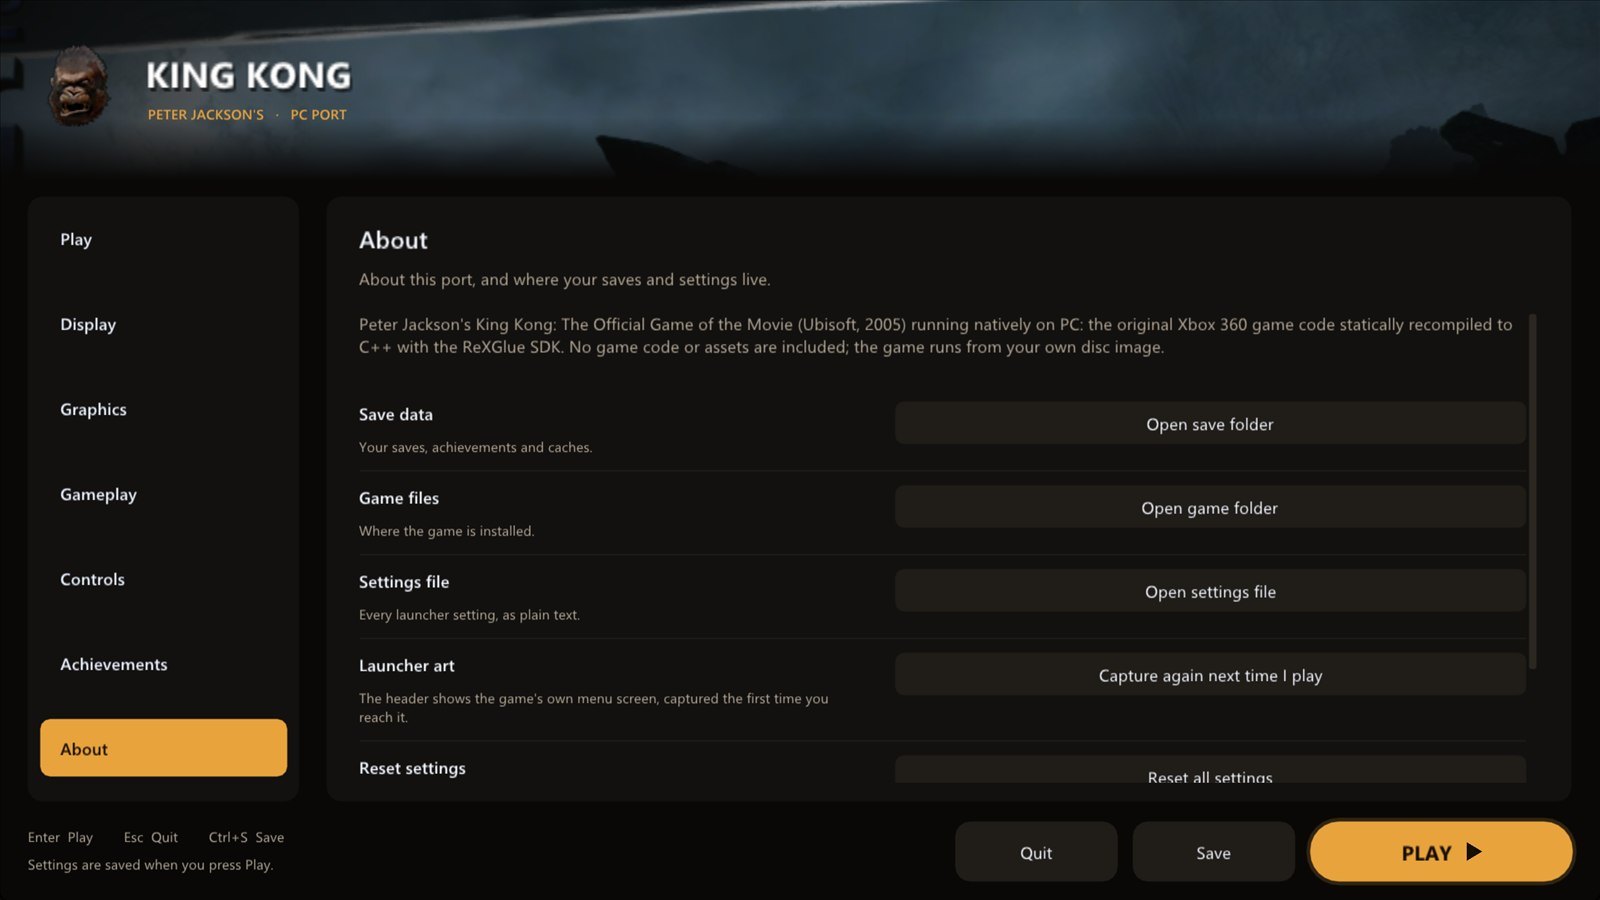
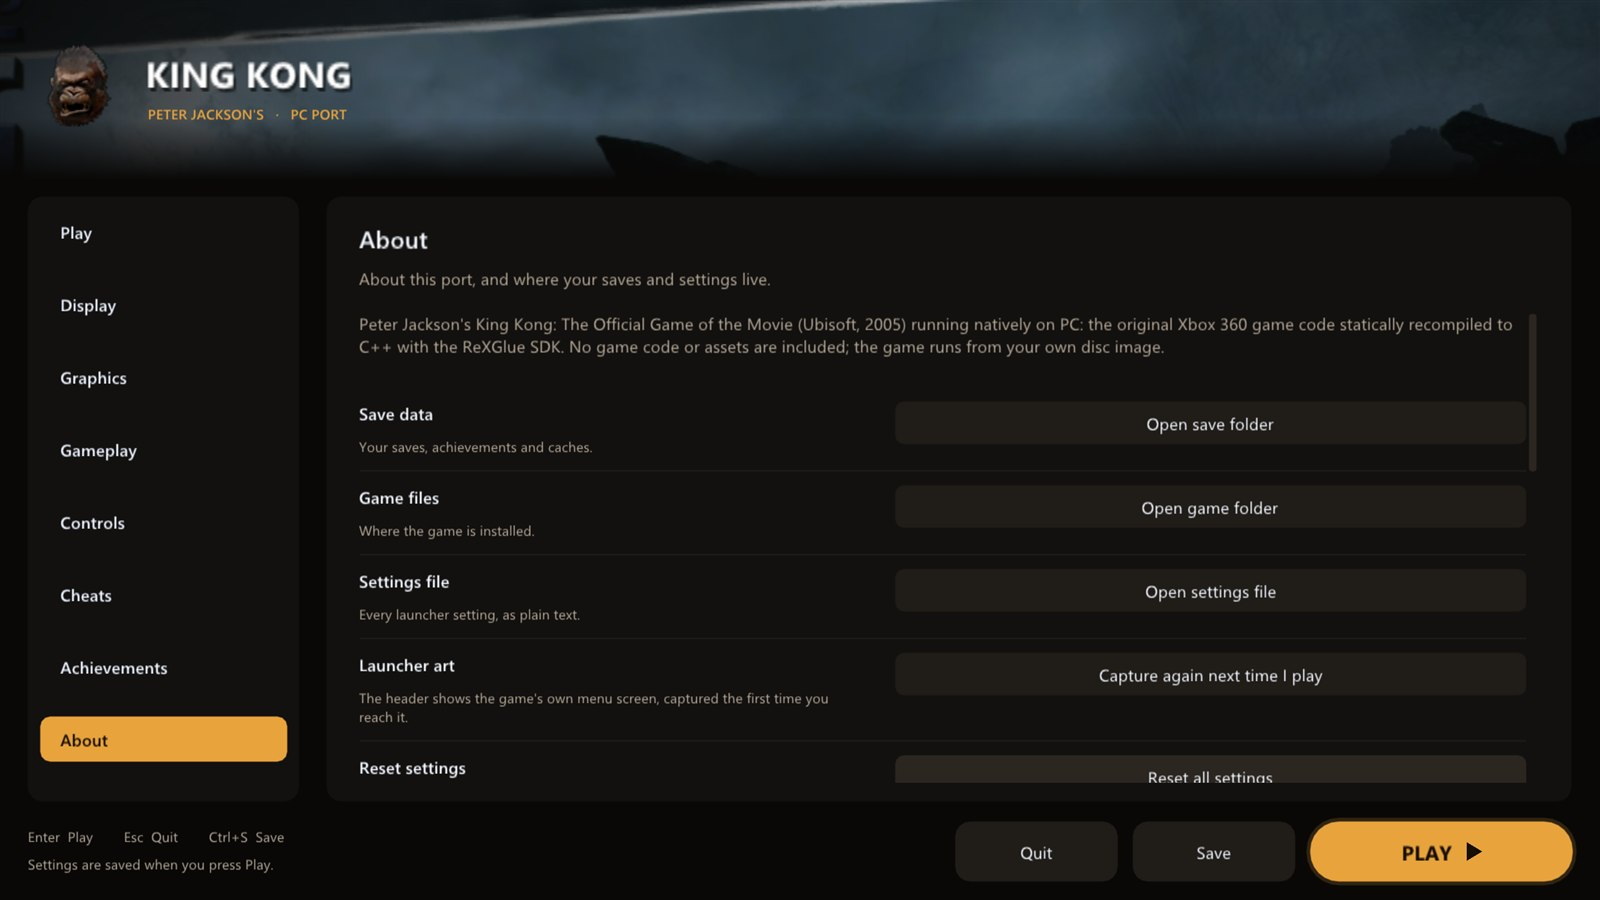
README: v1.7.0 launcher options and new screenshots
New highlights (field of view, cheats as switches, updates), the Cheats
page and What's new pop-up with screenshots, fuller notes on the new
options (field of view, motion blur, startup logos, controller and mouse
sensitivity, Reset page, changelog), more rows in the Xbox 360 vs PC
table, and an updated status note. All launcher screenshots retaken.

diff --git a/README.md b/README.md
@@ -19,7 +19,7 @@
 <br>
 
 > [!NOTE]
-> **First release.** Tested from the start of the game, through the opening on the ship, into Skull Island. A full play-through has not been tested yet. Please report anything that goes wrong.
+> **In active development.** Every chapter has been started and played for a while by automated test runs, but a full play-through hasn't been confirmed yet. New versions come out often, and the launcher offers each one when it opens. Please report anything that goes wrong.
 
 ## Highlights
 
@@ -54,13 +54,33 @@ A pop-up with a sound every time you unlock one of the game's 9 achievements, ju
 <td valign="top">
 
 **Your controls, your way**<br>
-Invert the camera, change its speed, set a deadzone, remap any button, adjust vibration, or play with keyboard and mouse.
+Invert the camera, set its sensitivity, toggle aim, set a deadzone, remap any button, adjust vibration, or play with keyboard and mouse.
 
 </td>
 <td valign="top">
 
 **Install from your disc**<br>
 Download, run, pick your disc image in the launcher, and play. No technical steps.
+
+</td>
+</tr>
+<tr>
+<td valign="top">
+
+**A wider view**<br>
+Widen the field of view from the original 69° up to 110°. Jack's gun keeps its usual size, and nothing pops in at the edges.
+
+</td>
+<td valign="top">
+
+**Cheats as switches**<br>
+All ten of the game's cheats are switches in the launcher, so there's no typing codes every time you play.
+
+</td>
+<td valign="top">
+
+**Always up to date**<br>
+The launcher offers new versions and new shader packs when it opens, and shows you what changed.
 
 </td>
 </tr>
@@ -74,7 +94,7 @@ Until now the only way to play it was on an Xbox 360. On the Xenia emulator it b
 
 ## The launcher
 
-Everything is set up before the game starts. The launcher uses art from your own copy of the game: Kong's face, the achievement pictures and the stormy sky from the game's menu. Settings are saved to a plain text file, `king_kong.toml`, next to the game.
+Everything is set up before the game starts. The launcher uses art from your own copy of the game: Kong's face, the achievement pictures and the stormy sky from the game's menu. Settings are saved to a plain text file, `king_kong.toml`, next to the game, and every settings page has a **Reset page** button that puts just that page back to its defaults.
 
 <table>
 <tr>
@@ -113,7 +133,7 @@ Everything is set up before the game starts. The launcher uses art from your own
 - **Custom resolution** from 1x (720p) to 6x (8K)
 - **FXAA** and **FXAA Extreme**
 - **Texture filtering** up to 16x
-- **Motion blur** on or off
+- **Motion blur** on or off: Off removes the ghost trail the game blends over fast moments, mostly in Kong's sequences
 - **Shader preparing**: wait for new effects (default, always drawn right) or prepare them in the background
 
 </td>
@@ -123,9 +143,9 @@ Everything is set up before the game starts. The launcher uses art from your own
 
 ### Gameplay
 - **Frame rate**: 30 (default, like the console), 60, 120, 144, 165, 240 or unlimited
-- **Field of view** from 69° (the original) to 110°
+- **Field of view** from 69° (the original) to 110°. The game draws the wider area too, Jack's gun keeps its usual size, and the menus keep their original look
 - **Frame counter** in the corner, toggled with <kbd>F2</kbd>
-- **Startup logos**: play or skip the Ubisoft, Universal and WingNut movies
+- **Startup logos**: play or skip the Ubisoft, Universal and WingNut movies, straight to the title screen
 - **Language**
 
 </td>
@@ -137,7 +157,8 @@ Everything is set up before the game starts. The launcher uses art from your own
 
 ### Controls
 - **Invert the camera** left/right and up/down, separately
-- **Controller sensitivity** from 25% to 300%, and **mouse sensitivity** for keyboard and mouse
+- **Controller sensitivity** from 25% to 300%, for looking left and right and up and down
+- **Mouse sensitivity** and **mouse camera** for keyboard and mouse
 - **Toggle aim**: press the left trigger once to raise the gun and again to lower it, instead of holding it
 - **Stick deadzone** to stop drift
 - **Vibration** on or off, with a strength slider
@@ -150,6 +171,21 @@ Everything is set up before the game starts. The launcher uses art from your own
 <tr>
 <td valign="middle">
 
+### Cheats
+The game's own cheats, as switches instead of codes to type each time you play:
+- **All chapters** and **all bonus content**
+- **Fast healing**, **one-hit kills**, **999 bullets** and **unlimited spears**
+- The **revolver**, **machine gun**, **shotgun** and **sniper rifle**
+
+They switch on as soon as the game reaches its main menu, exactly as if you had typed their codes.
+
+</td>
+<td><img src="docs/images/launcher-cheats.jpg" alt="Cheats page"></td>
+</tr>
+<tr>
+<td><img src="docs/images/launcher-achievements.jpg" alt="Achievements page"></td>
+<td valign="middle">
+
 ### Achievements
 - All **9 achievements** with their pictures, descriptions and gamerscore
 - See which ones you have **unlocked**
@@ -159,26 +195,31 @@ Everything is set up before the game starts. The launcher uses art from your own
 - A bonus **Welcome to Skull Island** achievement the first time you play
 
 </td>
-<td><img src="docs/images/launcher-achievements.jpg" alt="Achievements page"></td>
 </tr>
 <tr>
-<td><img src="docs/images/launcher-about.jpg" alt="About page"></td>
 <td valign="middle">
 
 ### About
 - Open your **save folder**, **game folder** or **settings file** in one click
 - **Reset** every setting
 - Refresh the launcher's art from the game's menu
+- **Check for updates** now, or turn the check at start off
+- The **changelog**: the notes for every version
+
+</td>
+<td><img src="docs/images/launcher-about.jpg" alt="About page"></td>
+</tr>
+<tr>
+<td><img src="docs/images/launcher-whats-new.jpg" alt="What's new pop-up"></td>
+<td valign="middle">
+
+### What's new
+- After an update, the launcher shows **what changed** the first time it opens
+- **Every version** takes you to the full changelog on the About page
 
 </td>
 </tr>
 </table>
-
-### Cheats
-The game's own cheats, as switches on the launcher's **Cheats** page instead of codes to type each time you play:
-**all chapters**, **all bonus content**, **fast healing**, **one-hit kills**, **999 bullets**, **unlimited spears**, and the
-**revolver**, **machine gun**, **shotgun** and **sniper rifle**. They switch on as soon as the game reaches its main
-menu, exactly as if you had typed their codes.
 
 ## In game
 
@@ -210,7 +251,10 @@ menu, exactly as if you had typed their codes.
 | Texture filtering | console | up to 16x |
 | Display | TV | windowed or fullscreen, any monitor |
 | Controls | Xbox 360 controller | any controller, remapping, keyboard and mouse |
-| Camera | game options | field of view, inverted axes, speed, deadzone |
+| Camera | game options | field of view, inverted axes, sensitivity, deadzone |
+| Motion blur | always on | on or off |
+| Startup logos | always play | play or skip |
+| Cheats | typed as codes each time | switches in the launcher |
 | Achievement pop-ups | console | Xbox 360 style, with your choice of sound |
 
 ### Hotkeys
